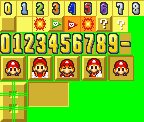
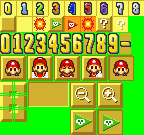
Багфиксы + украшательства
Пофикшен баг флага на уже открытую клетку, добавлена графика для кнопок
нижней панели.

diff --git a/core/src/com/jellycake/minesweeper/View.java b/core/src/com/jellycake/minesweeper/View.java
@@ -30,7 +30,7 @@ public class View {
 	{
 		Texture texture = new Texture(Gdx.files.internal("mario.png"));
 		Texture texture1 = new Texture(Gdx.files.internal("borders.png"));
-		textures = new TextureRegion[22];
+		textures = new TextureRegion[26];
 		
 		//Cell sprites
 		for (int i=0; i<9; i++)
@@ -49,6 +49,10 @@ public class View {
 		textures[19] = new TextureRegion(texture1, 13, 12, 12, 01); //right
 		textures[20] = new TextureRegion(texture, 0, 55, 26, 26); //head1
 		textures[21] = new TextureRegion(texture, 27, 55, 26, 26); //head2
+		textures[22] = new TextureRegion(texture, 70, 82, 26, 26); //minus
+		textures[23] = new TextureRegion(texture, 97, 82, 26, 26); //plus
+		textures[24] = new TextureRegion(texture, 70, 109, 26, 26); //flag_disables
+		textures[25] = new TextureRegion(texture, 97, 109, 26, 26); //flag_enabled
 	}
 	
 	public void draw()
@@ -87,12 +91,12 @@ public class View {
 			font.draw(batch, "Restart", Gdx.graphics.getWidth()/2-20, 20);
 		}
 		//font.draw(batch, Gdx.graphics.getHeight() + "-" + Gdx.graphics.getWidth(), 5, 15);
-        batch.draw(textures[20], Gdx.graphics.getWidth()/2-78, 0, 52, 52); //right
+        batch.draw(textures[23], Gdx.graphics.getWidth()/2-78, 0, 52, 52); //plus
         if (Globals.isFlagClick == true)
-            batch.draw(textures[9], Gdx.graphics.getWidth()/2-26, 0, 52, 52); //flag
+            batch.draw(textures[25], Gdx.graphics.getWidth()/2-26, 0, 52, 52); //flag
         else
-            batch.draw(textures[11], Gdx.graphics.getWidth()/2-26, 0, 52, 52); //flag
-        batch.draw(textures[21], Gdx.graphics.getWidth()/2+26, 0, 52, 52); //right
+            batch.draw(textures[24], Gdx.graphics.getWidth()/2-26, 0, 52, 52); //flag
+        batch.draw(textures[22], Gdx.graphics.getWidth()/2+26, 0, 52, 52); //minus
         
         batch.end();
     }

diff --git a/core/src/com/jellycake/minesweeper/Controller.java b/core/src/com/jellycake/minesweeper/Controller.java
@@ -71,7 +71,9 @@ public class Controller implements InputProcessor{
 							Globals.Win = true;
 						}
 					}
-					if (Globals.isFlagClick == true)
+					if (Globals.isFlagClick == true && (
+							board.GetCell(((int)mousePosition.x - Globals.BoardCenterX + (Globals.cellSize*Globals.BoardWidth/2))/Globals.cellSize, ((int)mousePosition.y - Globals.BoardCenterY + (Globals.cellSize*Globals.BoardHeight/2))/Globals.cellSize).GetState() == 9 ||
+							board.GetCell(((int)mousePosition.x - Globals.BoardCenterX + (Globals.cellSize*Globals.BoardWidth/2))/Globals.cellSize, ((int)mousePosition.y - Globals.BoardCenterY + (Globals.cellSize*Globals.BoardHeight/2))/Globals.cellSize).GetState() == 11))
 						board.GetCell(((int)mousePosition.x - Globals.BoardCenterX + (Globals.cellSize*Globals.BoardWidth/2))/Globals.cellSize, ((int)mousePosition.y - Globals.BoardCenterY + (Globals.cellSize*Globals.BoardHeight/2))/Globals.cellSize).FlagCell();
 				}
 			} else if (Globals.GameOver == true)

diff --git a/core/src/com/jellycake/minesweeper/LoadPrefs.java b/core/src/com/jellycake/minesweeper/LoadPrefs.java
@@ -33,7 +33,9 @@ public class LoadPrefs {
 	    Document document = null;
 		try {
 			document = builder.parse(xml);
-		} catch (SAXException | IOException e) {
+		} catch (SAXException e) {
+			e.printStackTrace();
+		} catch (IOException e) {
 			e.printStackTrace();
 		}
 		
